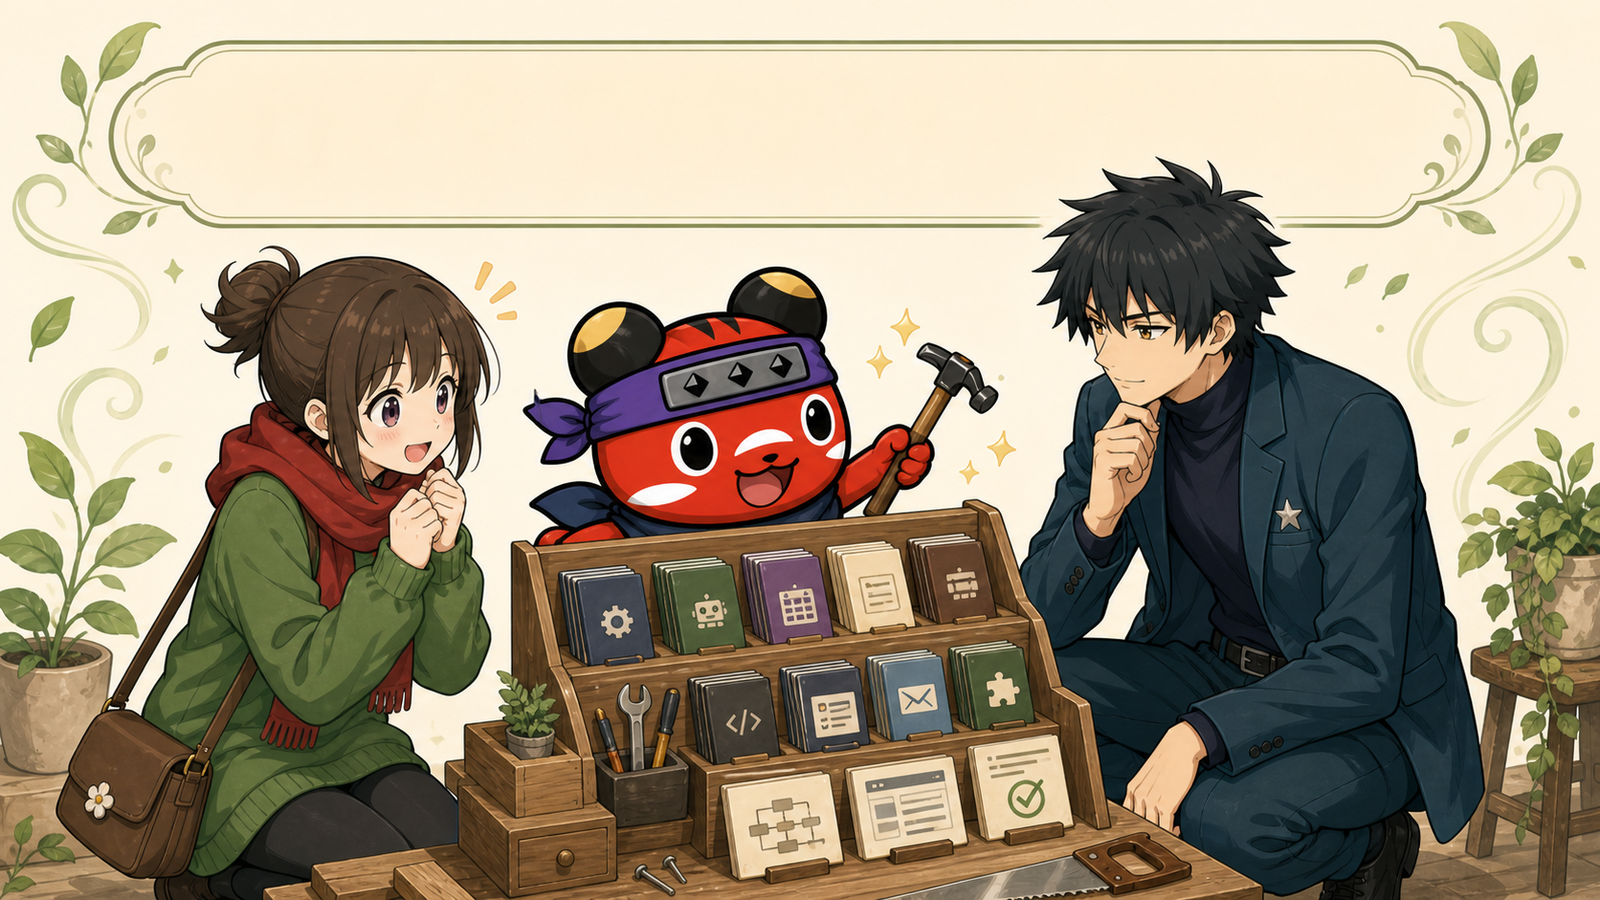
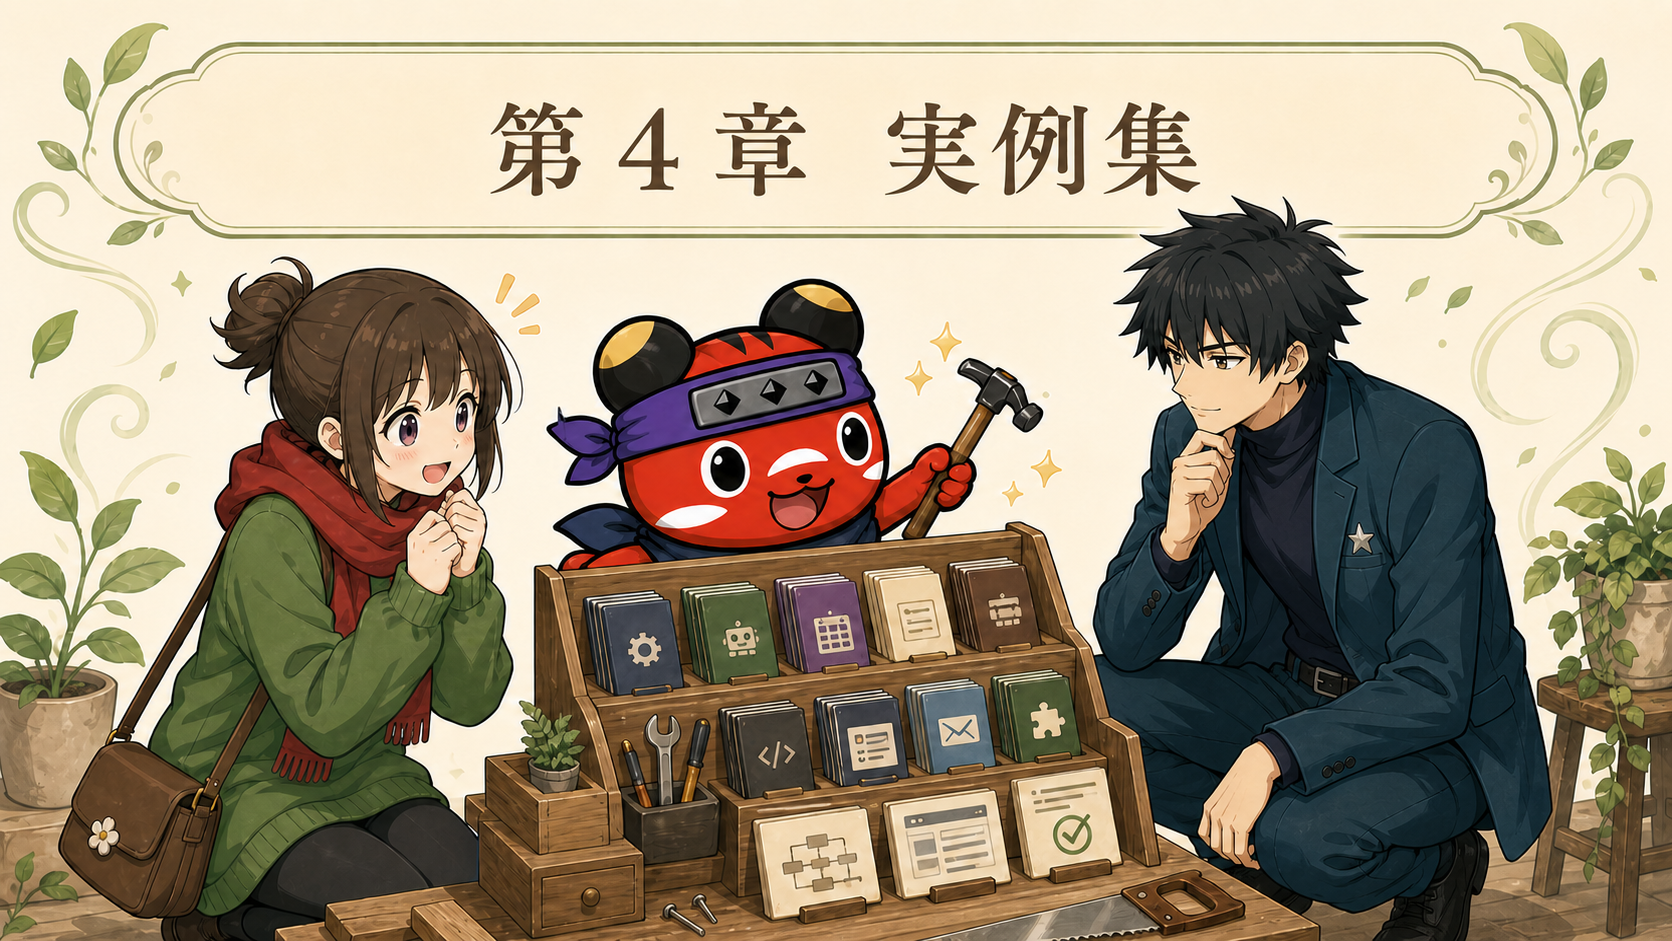
第4章扉絵を最新画像に更新

diff --git a/textbook.html b/textbook.html
@@ -4274,7 +4274,7 @@ Google 系のサービスや最新情報に強い場面があります。<br />
 <hr />
 <hr /></section>
 <section class="chapter" id="第4章"><div class="chapter-label">第4章</div><h1 class="chapter-title">実例集</h1><h1 id="第4章-第4章-実例集：4フェーズの型を、実際の仕事で動かす">第4章　実例集：4フェーズの型を、実際の仕事で動かす</h1>
-<p><img alt="第4章：実例集" src="images/ch04/ch04-examples-hero.png?v=20260603b" loading="lazy" decoding="async" /></p>
+<p><img alt="第4章：実例集" src="images/ch04/ch04-examples-hero.png?v=20260604-ch04" loading="lazy" decoding="async" /></p>
 <hr />
 <h2 id="第4章-この章で渡すもの">この章で渡すもの</h2>
 <p>第2章で「<strong>4フェーズの型</strong>」を渡しました。</p>
